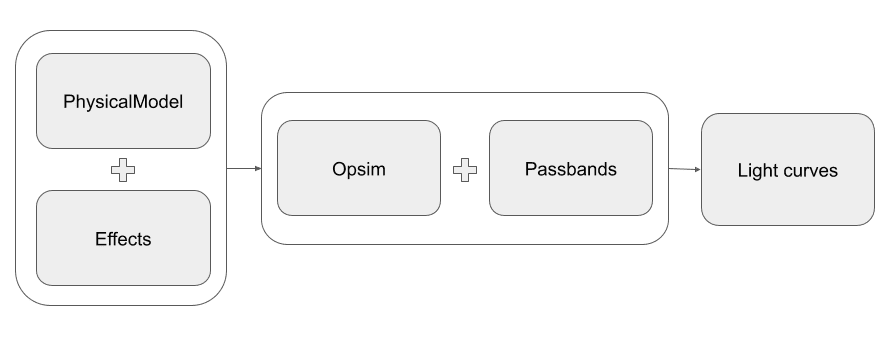
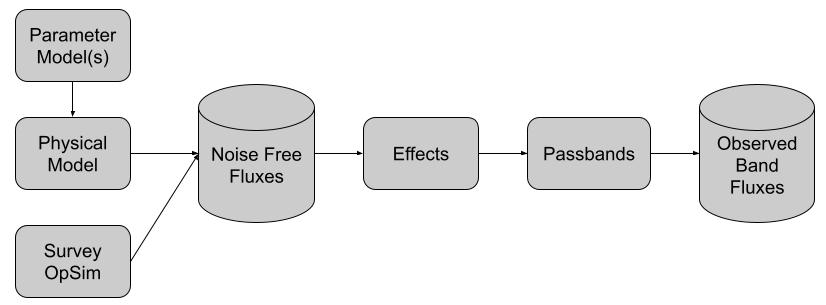
Update documentation

diff --git a/docs/simulations.rst b/docs/simulations.rst
@@ -14,21 +14,37 @@ Introduction
 
 The main simulation components in TDAstro include:
 
+* A statistical simulation step where the hyperparameters of the model are drawn
+  from one or more prior distributions.
 * ``PhysicalModel`` defines the properties of the time-domain source, which can 
-  also include a host-galaxy model.
-* ``PassbandGroup`` contains the filter information of the telescope
+  also include a host-galaxy model, and is used to generate the noise-free light curves.
 * ``Opsim`` contains the survey information such as survey strategy and observing
-  conditions.
+  conditions. It is used to specify the observing times and bands.
+* A set of predefined effects, such as dust extinction and detector noise, are applied
+   to the noise-free light curves to produce realistic light curves.
+* The ``PassbandGroup`` contains the filter information of the telescope and is used
+  to calculate the fluxes in each band.
 
-We can generate random realizations of the ``PhysicalModel`` and produce realistic
-light curves using the above components.
-
-Defining a model with a DAG
+Defining a parameterized model
 -------------------------------------------------------------------------------
 
-A hierarchical model can be visualized by a Directed Acyclic Graph (DAG). In TDAstro,
-we can define a ``PhysicalModel`` based on a DAG. For example, a simplified SNIa
-model with a host component can have the following DAG:
+The core idea behind TDAstro is that we want to generate light curves from parameterized models
+of physical objects. The ``PhysicalModel`` class defines the structure for modeling physical object.
+New object types are derived from the ``PhysicalModel`` base class and implement a ``compute_flux()``
+function that generates the noise-free flux densities given information about the times, wavelengths,
+and model parameters (called graph_state). 
+
+.. code-block:: python
+    def compute_flux(self, times, wavelengths, graph_state, **kwargs):
+
+A user using a particular physical model only needs to understand what parameters the model has
+and how they are set. A user creating a new physical model additionally needs to know how the noise-free
+flux density values are generated from those parameters.
+
+The parameters are defined by a hierarchical model can be visualized by a Directed Acyclic Graph (DAG).
+This means that the parameters to our physical model, such as a type Ia supernova, can themselves be sampled
+based on distributions of hyperparameters. For example, a simplified SNIa model with a host component
+can have the following DAG:
 
 .. figure:: _static/dag-model.png
    :class: no-scaled-link
@@ -37,6 +53,10 @@ model with a host component can have the following DAG:
    :alt: An example DAG for a SNIa model
 
    An example DAG for a SNIa model
+
+In this example, the parameter ``c`` is drawn from a predefined distribution, while the parameter ``x1``
+is drawn from a distribution that is itself parameterized by the ``host_mass`` parameter. TDAstro handles
+the sequential processing of the graph so that all parameters are consistently sampled for each object.
 
 Examples
 -------------------------------------------------------------------------------

diff --git a/docs/index.rst b/docs/index.rst
@@ -10,10 +10,9 @@ Time-Domain Forward-Modeling for the Rubin Era
 -------------------------------------------------------------------------------
 
 Realistic light curve simulations are essential to many time-domain problems. 
-simulations are needed to evaluate observing strategy, characterize biases, 
-and test pipelines. The need for a flexible, scalable, and user-friendly time-domain
-simulation software has increased as the new survey telescopes get ready for their
-first lights. TDAstro aims to provide such software for the time domain community.
+Simulations are needed to evaluate observing strategy, characterize biases, 
+and test pipelines. TDAstro aims to provide a flexible, scalable, and user-friendly
+time-domain with realistic effects and survey strategies.
 
 .. figure:: _static/tdastro-intro.png
    :class: no-scaled-link
@@ -25,14 +24,21 @@ first lights. TDAstro aims to provide such software for the time domain communit
 
 The main simulation components in TDAstro include:
 
+* A statistical simulation step where the hyperparameters of the model are drawn
+  from one or more prior distributions.
 * ``PhysicalModel`` defines the properties of the time-domain source, which can 
-  also include a host-galaxy model.
-* ``PassbandGroup`` contains the filter information of the telescope
+  also include a host-galaxy model, and is used to generate the noise-free light curves.
 * ``Opsim`` contains the survey information such as survey strategy and observing
-  conditions.
+  conditions. It is used to specify the observing times and bands.
+* A set of predefined effects, such as dust extinction and detector noise, are applied
+   to the noise-free light curves to produce realistic light curves.
+* The ``PassbandGroup`` contains the filter information of the telescope and is used
+  to calculate the fluxes in each band.
 
-We can generate random realizations of the ``PhysicalModel`` and produce realistic
-light curves using the above components.
+TDAstro can generate numerous random realizations of the parameters for the ``PhysicalModel``
+to produce realistic light curves using the above components.  See the 
+:doc:`simulations <simulations>` page for a more detailed description of the process.
+
 
 Getting Started
 -------------------------------------------------------------------------------
